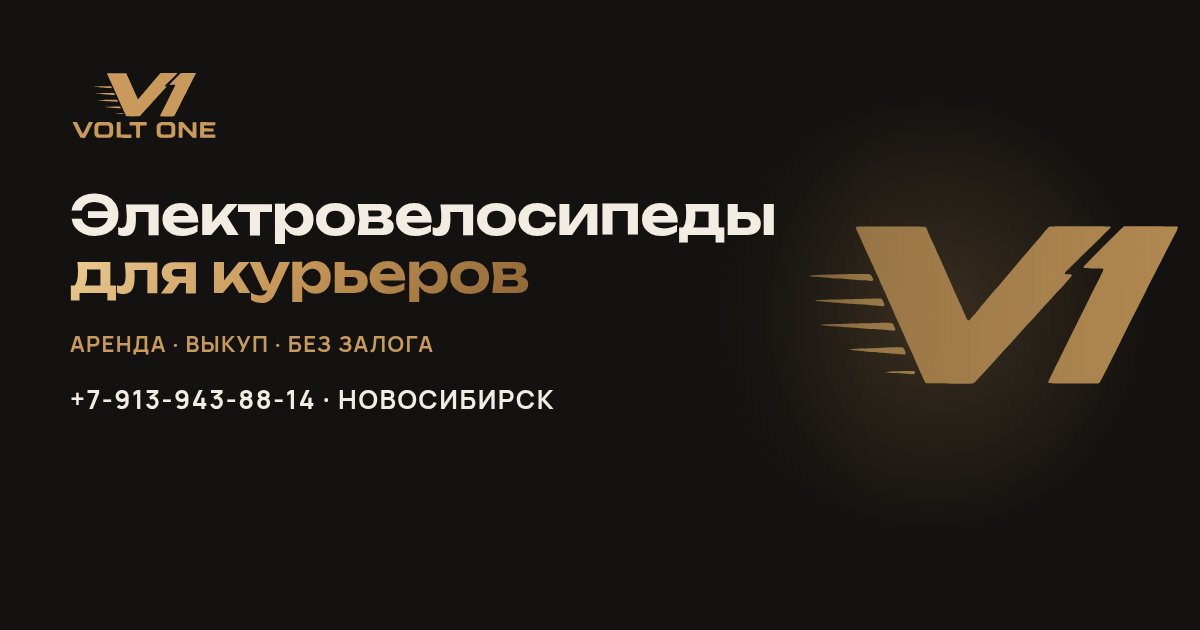
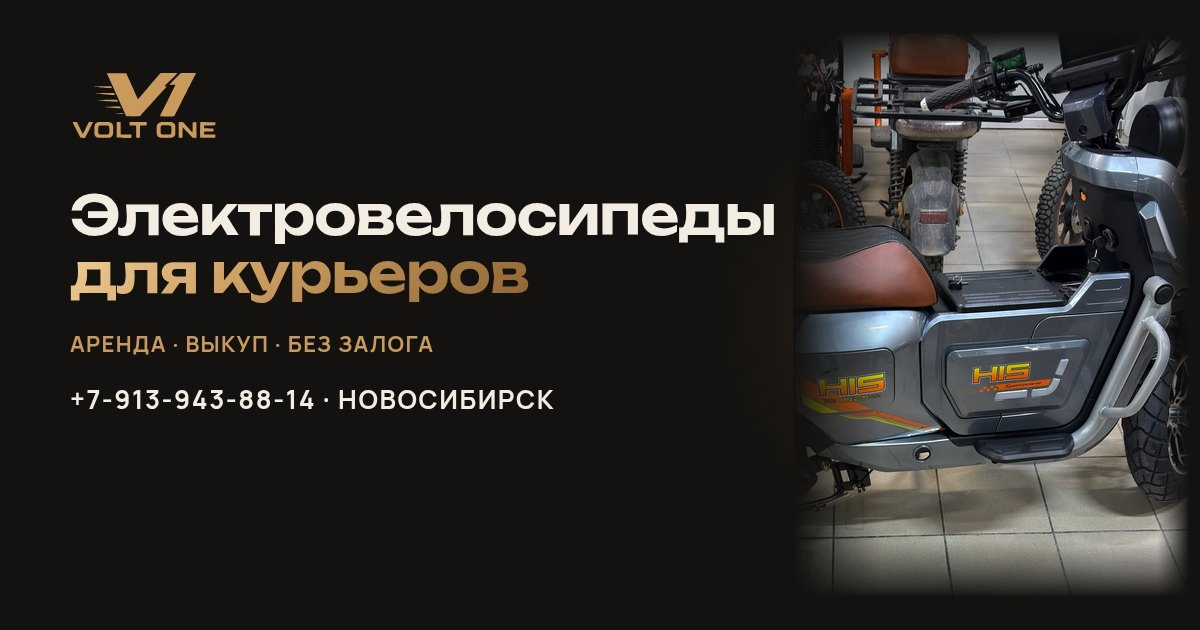
Home hero: real bike photo slider (U2 BIG, U2, R9, U5) with model links; OG image with real photo

Changed region(s): [[0.6475, 0.0603, 0.9867, 0.9349]]

diff --git a/index.html b/index.html
@@ -10,7 +10,7 @@
 <link rel="apple-touch-icon" href="img/brand/apple-touch-icon.png">
 <link rel="preconnect" href="https://fonts.googleapis.com"><link rel="preconnect" href="https://fonts.gstatic.com" crossorigin>
 <link href="https://fonts.googleapis.com/css2?family=Manrope:wght@400;500;600;700;800&family=Unbounded:wght@400;500;600;700&display=swap&subset=cyrillic" rel="stylesheet">
-<link rel="stylesheet" href="assets/style.css?v=11">
+<link rel="stylesheet" href="assets/style.css?v=12">
 <script type="application/ld+json">{"@context": "https://schema.org", "@type": "LocalBusiness", "name": "VOLT ONE", "description": "Аренда, аренда с выкупом и продажа электровелосипедов для курьеров", "telephone": "+79139438814", "address": {"@type": "PostalAddress", "streetAddress": "ул. Пролетарская, 50", "addressLocality": "Новосибирск", "addressCountry": "RU"}, "geo": {"@type": "GeoCoordinates", "latitude": 55.0248099, "longitude": 82.9562136}}</script>
 </head><body><div class="noise"></div><header class="header"><div class="container header-in">
 <a class="logo" href="./" aria-label="VOLT ONE — на главную"><img src="img/brand/mark.svg" alt="VOLT ONE" width="78" height="34"><span class="logo-txt"><b>VOLT ONE</b><small>Аренда · Продажа · Запчасти</small></span></a>
@@ -24,8 +24,7 @@
 <p class="lead rv d2">WENBOX в аренду и с выкупом. Все электровелосипеды новые, полностью подготовлены к работе и подходят для ежедневной работы курьером.</p>
 <div class="hero-btns rv d3"><a class="btn btn-gold" href="catalog/">Выбрать модель<svg class="" viewBox="0 0 24 24" fill="none" stroke="currentColor" stroke-width="1.7" stroke-linecap="round" stroke-linejoin="round" aria-hidden="true"><path d="M5 12h14M13 6l6 6-6 6"/></svg></a><a class="btn btn-ghost" href="tel:+79139438814"><svg class="" viewBox="0 0 24 24" fill="none" stroke="currentColor" stroke-width="1.7" stroke-linecap="round" stroke-linejoin="round" aria-hidden="true"><path d="M5 4h4l2 5-2.5 1.5a11 11 0 0 0 5 5L15 13l5 2v4a2 2 0 0 1-2 2A16 16 0 0 1 3 6a2 2 0 0 1 2-2"/></svg>+7-913-943-88-14</a></div>
 <div class="hero-stats rv d3"><div><b>от 4 000 ₽</b><span>аренда в неделю</span></div><div><b>0 ₽</b><span>залог</span></div><div><b>до 70 км/ч</b><span>скорость U2 / U2 PRO</span></div></div></div>
-<div class="hero-media rv d2"><div class="hero-photo hero-art"><div class="ha-rings"><i></i><i></i><i></i></div><img class="ha-mark" src="img/brand/mark.svg" alt="" aria-hidden="true"><div class="ha-bike"><svg viewBox="0 0 320 190" fill="none" stroke="currentColor" stroke-width="3" stroke-linecap="round" stroke-linejoin="round" aria-hidden="true"><circle cx="70" cy="138" r="40"/><circle cx="70" cy="138" r="14"/><circle cx="252" cy="138" r="40"/><circle cx="252" cy="138" r="14"/><path d="M70 138 112 70h78l20 32"/><path d="M118 70h-22l-10-16M190 70l62 68M210 102h-60l-38 36"/><path d="M228 46l-18 56M218 44h24"/><path d="M128 62h46" stroke-width="10" opacity=".55"/><rect x="138" y="94" width="64" height="20" rx="6" opacity=".55"/></svg></div>
-<div class="cap"><div><b>WENBOX U2 · U2 BIG · U5 · R9</b>Новые электровелосипеды для курьеров</div></div></div>
+<div class="hero-media rv d2"><div class="hero-photo hero-slider" id="hslider"><a class="hs on" href="catalog/u2-big/" aria-label="WENBOX U2 BIG — подробнее"><picture><source srcset="img/models/u2-big/u2big-1.webp" type="image/webp"><img src="img/models/u2-big/u2big-1.jpg" alt="WENBOX U2 BIG" fetchpriority="high" decoding="async"></picture><span class="cap"><span><b>WENBOX U2 BIG</b>Новые электровелосипеды для курьеров</span><span class="hs-more">Подробнее<svg class="" viewBox="0 0 24 24" fill="none" stroke="currentColor" stroke-width="1.7" stroke-linecap="round" stroke-linejoin="round" aria-hidden="true"><path d="M5 12h14M13 6l6 6-6 6"/></svg></span></span></a><a class="hs" href="catalog/u2/" aria-label="WENBOX U2 / U2 PRO — подробнее"><picture><source srcset="img/models/u2/u2-1.webp" type="image/webp"><img src="img/models/u2/u2-1.jpg" alt="WENBOX U2 / U2 PRO" loading="lazy" decoding="async"></picture><span class="cap"><span><b>WENBOX U2 / U2 PRO</b>Новые электровелосипеды для курьеров</span><span class="hs-more">Подробнее<svg class="" viewBox="0 0 24 24" fill="none" stroke="currentColor" stroke-width="1.7" stroke-linecap="round" stroke-linejoin="round" aria-hidden="true"><path d="M5 12h14M13 6l6 6-6 6"/></svg></span></span></a><a class="hs" href="catalog/r9/" aria-label="WENBOX R9 — подробнее"><picture><source srcset="img/models/r9/r9-1.webp" type="image/webp"><img src="img/models/r9/r9-1.jpg" alt="WENBOX R9" loading="lazy" decoding="async"></picture><span class="cap"><span><b>WENBOX R9</b>Новые электровелосипеды для курьеров</span><span class="hs-more">Подробнее<svg class="" viewBox="0 0 24 24" fill="none" stroke="currentColor" stroke-width="1.7" stroke-linecap="round" stroke-linejoin="round" aria-hidden="true"><path d="M5 12h14M13 6l6 6-6 6"/></svg></span></span></a><a class="hs" href="catalog/u5/" aria-label="WENBOX U5 — подробнее"><picture><source srcset="img/models/u5/u5-1.webp" type="image/webp"><img src="img/models/u5/u5-1.jpg" alt="WENBOX U5" loading="lazy" decoding="async"></picture><span class="cap"><span><b>WENBOX U5</b>Новые электровелосипеды для курьеров</span><span class="hs-more">Подробнее<svg class="" viewBox="0 0 24 24" fill="none" stroke="currentColor" stroke-width="1.7" stroke-linecap="round" stroke-linejoin="round" aria-hidden="true"><path d="M5 12h14M13 6l6 6-6 6"/></svg></span></span></a><div class="hs-dots"><button type="button" class="on" aria-label="WENBOX U2 BIG"></button><button type="button" class="" aria-label="WENBOX U2 / U2 PRO"></button><button type="button" class="" aria-label="WENBOX R9"></button><button type="button" class="" aria-label="WENBOX U5"></button></div></div>
 <div class="float-chip chip-1"><svg class="" viewBox="0 0 24 24" fill="none" stroke="currentColor" stroke-width="1.7" stroke-linecap="round" stroke-linejoin="round" aria-hidden="true"><path d="M12 3 4 6v6c0 5 3.5 8 8 9 4.5-1 8-4 8-9V6l-8-3z"/><path d="m9 12 2 2 4-4"/></svg><div><b>Без залога</b><span>новая техника</span></div></div>
 <div class="float-chip chip-2"><svg class="" viewBox="0 0 24 24" fill="none" stroke="currentColor" stroke-width="1.7" stroke-linecap="round" stroke-linejoin="round" aria-hidden="true"><path d="M14.7 6.3a4 4 0 0 0-5.4 5.4L3 18l3 3 6.3-6.3a4 4 0 0 0 5.4-5.4l-2.5 2.5-2.4-.6-.6-2.4 2.5-2.5z"/></svg><div><b>Свой сервис</b><span>подменный — бесплатно</span></div></div></div>
 </div></section>
@@ -93,4 +92,4 @@
 <div><h4>Контакты</h4><ul><li><a href="tel:+79139438814">+7-913-943-88-14</a></li><li><a class="foot-ic" href="https://wa.me/79139438814" target="_blank" rel="noopener"><svg viewBox="0 0 24 24" fill="currentColor" aria-hidden="true"><path d="M12 2.2A9.8 9.8 0 0 0 3.6 17l-1.4 4.8 5-1.3A9.8 9.8 0 1 0 12 2.2zm0 17.9a8.1 8.1 0 0 1-4.1-1.1l-.3-.2-3 .8.8-2.9-.2-.3A8.1 8.1 0 1 1 12 20.1zm4.5-6.1c-.2-.1-1.5-.7-1.7-.8-.2-.1-.4-.1-.6.1l-.8 1c-.1.2-.3.2-.5.1a6.6 6.6 0 0 1-3.3-2.9c-.2-.4.2-.4.7-1.3.1-.2 0-.3 0-.4l-.8-1.8c-.2-.5-.4-.4-.6-.4h-.5a1 1 0 0 0-.7.3 3 3 0 0 0-.9 2.2c0 1.3.9 2.5 1.1 2.7.1.2 1.8 2.8 4.4 3.9 1.6.7 2.3.8 3.1.6.5-.1 1.5-.6 1.7-1.2.2-.6.2-1.1.2-1.2-.1-.1-.3-.2-.5-.3z"/></svg>Написать в WhatsApp</a></li><li><a class="foot-ic" href="https://t.me/Volt0ne" target="_blank" rel="noopener"><svg viewBox="0 0 24 24" fill="currentColor" aria-hidden="true"><path d="M21.4 3.6 2.9 10.7c-1.3.5-1.2 1.2-.2 1.5l4.7 1.5 1.8 5.6c.2.6.4.8.8.8s.6-.2.9-.5l2.3-2.2 4.8 3.5c.9.5 1.5.2 1.7-.8l3.1-14.7c.3-1.3-.5-1.9-1.4-1.3zM9.6 13.9l8.6-5.4c.4-.3.8-.1.5.2l-7.4 6.7-.3 3.1-1.4-4.6z"/></svg>Написать в Telegram · @Volt0ne</a></li><li style="color:var(--muted)">г. Новосибирск, ул. Пролетарская, 50</li></ul></div>
 </div><div class="foot-bottom"><span>© 2026 VOLT ONE. Аренда · Продажа · Запчасти</span><span>Новая техника · Без залога · Собственный сервис · Аренда с выкупом</span></div></div></footer>
 <div class="mbar"><a class="btn btn-gold" href="tel:+79139438814"><svg class="" viewBox="0 0 24 24" fill="none" stroke="currentColor" stroke-width="1.7" stroke-linecap="round" stroke-linejoin="round" aria-hidden="true"><path d="M5 4h4l2 5-2.5 1.5a11 11 0 0 0 5 5L15 13l5 2v4a2 2 0 0 1-2 2A16 16 0 0 1 3 6a2 2 0 0 1 2-2"/></svg>Позвонить</a><a class="btn btn-ghost" href="https://wa.me/79139438814" target="_blank" rel="noopener"><svg viewBox="0 0 24 24" fill="currentColor" aria-hidden="true"><path d="M12 2.2A9.8 9.8 0 0 0 3.6 17l-1.4 4.8 5-1.3A9.8 9.8 0 1 0 12 2.2zm0 17.9a8.1 8.1 0 0 1-4.1-1.1l-.3-.2-3 .8.8-2.9-.2-.3A8.1 8.1 0 1 1 12 20.1zm4.5-6.1c-.2-.1-1.5-.7-1.7-.8-.2-.1-.4-.1-.6.1l-.8 1c-.1.2-.3.2-.5.1a6.6 6.6 0 0 1-3.3-2.9c-.2-.4.2-.4.7-1.3.1-.2 0-.3 0-.4l-.8-1.8c-.2-.5-.4-.4-.6-.4h-.5a1 1 0 0 0-.7.3 3 3 0 0 0-.9 2.2c0 1.3.9 2.5 1.1 2.7.1.2 1.8 2.8 4.4 3.9 1.6.7 2.3.8 3.1.6.5-.1 1.5-.6 1.7-1.2.2-.6.2-1.1.2-1.2-.1-.1-.3-.2-.5-.3z"/></svg>WhatsApp</a></div>
-<script src="assets/main.js?v=7" defer></script></body></html>
+<script src="assets/main.js?v=8" defer></script></body></html>

diff --git a/catalog/r9/index.html b/catalog/r9/index.html
@@ -10,7 +10,7 @@
 <link rel="apple-touch-icon" href="../../img/brand/apple-touch-icon.png">
 <link rel="preconnect" href="https://fonts.googleapis.com"><link rel="preconnect" href="https://fonts.gstatic.com" crossorigin>
 <link href="https://fonts.googleapis.com/css2?family=Manrope:wght@400;500;600;700;800&family=Unbounded:wght@400;500;600;700&display=swap&subset=cyrillic" rel="stylesheet">
-<link rel="stylesheet" href="../../assets/style.css?v=11">
+<link rel="stylesheet" href="../../assets/style.css?v=12">
 <script type="application/ld+json">{"@context": "https://schema.org", "@type": "LocalBusiness", "name": "VOLT ONE", "description": "Аренда, аренда с выкупом и продажа электровелосипедов для курьеров", "telephone": "+79139438814", "address": {"@type": "PostalAddress", "streetAddress": "ул. Пролетарская, 50", "addressLocality": "Новосибирск", "addressCountry": "RU"}, "geo": {"@type": "GeoCoordinates", "latitude": 55.0248099, "longitude": 82.9562136}}</script>
 </head><body><div class="noise"></div><header class="header solid"><div class="container header-in">
 <a class="logo" href="../../" aria-label="VOLT ONE — на главную"><img src="../../img/brand/mark.svg" alt="VOLT ONE" width="78" height="34"><span class="logo-txt"><b>VOLT ONE</b><small>Аренда · Продажа · Запчасти</small></span></a>
@@ -45,4 +45,4 @@
 <div><h4>Контакты</h4><ul><li><a href="tel:+79139438814">+7-913-943-88-14</a></li><li><a class="foot-ic" href="https://wa.me/79139438814" target="_blank" rel="noopener"><svg viewBox="0 0 24 24" fill="currentColor" aria-hidden="true"><path d="M12 2.2A9.8 9.8 0 0 0 3.6 17l-1.4 4.8 5-1.3A9.8 9.8 0 1 0 12 2.2zm0 17.9a8.1 8.1 0 0 1-4.1-1.1l-.3-.2-3 .8.8-2.9-.2-.3A8.1 8.1 0 1 1 12 20.1zm4.5-6.1c-.2-.1-1.5-.7-1.7-.8-.2-.1-.4-.1-.6.1l-.8 1c-.1.2-.3.2-.5.1a6.6 6.6 0 0 1-3.3-2.9c-.2-.4.2-.4.7-1.3.1-.2 0-.3 0-.4l-.8-1.8c-.2-.5-.4-.4-.6-.4h-.5a1 1 0 0 0-.7.3 3 3 0 0 0-.9 2.2c0 1.3.9 2.5 1.1 2.7.1.2 1.8 2.8 4.4 3.9 1.6.7 2.3.8 3.1.6.5-.1 1.5-.6 1.7-1.2.2-.6.2-1.1.2-1.2-.1-.1-.3-.2-.5-.3z"/></svg>Написать в WhatsApp</a></li><li><a class="foot-ic" href="https://t.me/Volt0ne" target="_blank" rel="noopener"><svg viewBox="0 0 24 24" fill="currentColor" aria-hidden="true"><path d="M21.4 3.6 2.9 10.7c-1.3.5-1.2 1.2-.2 1.5l4.7 1.5 1.8 5.6c.2.6.4.8.8.8s.6-.2.9-.5l2.3-2.2 4.8 3.5c.9.5 1.5.2 1.7-.8l3.1-14.7c.3-1.3-.5-1.9-1.4-1.3zM9.6 13.9l8.6-5.4c.4-.3.8-.1.5.2l-7.4 6.7-.3 3.1-1.4-4.6z"/></svg>Написать в Telegram · @Volt0ne</a></li><li style="color:var(--muted)">г. Новосибирск, ул. Пролетарская, 50</li></ul></div>
 </div><div class="foot-bottom"><span>© 2026 VOLT ONE. Аренда · Продажа · Запчасти</span><span>Новая техника · Без залога · Собственный сервис · Аренда с выкупом</span></div></div></footer>
 <div class="mbar"><a class="btn btn-gold" href="tel:+79139438814"><svg class="" viewBox="0 0 24 24" fill="none" stroke="currentColor" stroke-width="1.7" stroke-linecap="round" stroke-linejoin="round" aria-hidden="true"><path d="M5 4h4l2 5-2.5 1.5a11 11 0 0 0 5 5L15 13l5 2v4a2 2 0 0 1-2 2A16 16 0 0 1 3 6a2 2 0 0 1 2-2"/></svg>Позвонить</a><a class="btn btn-ghost" href="https://wa.me/79139438814" target="_blank" rel="noopener"><svg viewBox="0 0 24 24" fill="currentColor" aria-hidden="true"><path d="M12 2.2A9.8 9.8 0 0 0 3.6 17l-1.4 4.8 5-1.3A9.8 9.8 0 1 0 12 2.2zm0 17.9a8.1 8.1 0 0 1-4.1-1.1l-.3-.2-3 .8.8-2.9-.2-.3A8.1 8.1 0 1 1 12 20.1zm4.5-6.1c-.2-.1-1.5-.7-1.7-.8-.2-.1-.4-.1-.6.1l-.8 1c-.1.2-.3.2-.5.1a6.6 6.6 0 0 1-3.3-2.9c-.2-.4.2-.4.7-1.3.1-.2 0-.3 0-.4l-.8-1.8c-.2-.5-.4-.4-.6-.4h-.5a1 1 0 0 0-.7.3 3 3 0 0 0-.9 2.2c0 1.3.9 2.5 1.1 2.7.1.2 1.8 2.8 4.4 3.9 1.6.7 2.3.8 3.1.6.5-.1 1.5-.6 1.7-1.2.2-.6.2-1.1.2-1.2-.1-.1-.3-.2-.5-.3z"/></svg>WhatsApp</a></div>
-<script src="../../assets/main.js?v=7" defer></script></body></html>
+<script src="../../assets/main.js?v=8" defer></script></body></html>

diff --git a/catalog/u2-big/index.html b/catalog/u2-big/index.html
@@ -10,7 +10,7 @@
 <link rel="apple-touch-icon" href="../../img/brand/apple-touch-icon.png">
 <link rel="preconnect" href="https://fonts.googleapis.com"><link rel="preconnect" href="https://fonts.gstatic.com" crossorigin>
 <link href="https://fonts.googleapis.com/css2?family=Manrope:wght@400;500;600;700;800&family=Unbounded:wght@400;500;600;700&display=swap&subset=cyrillic" rel="stylesheet">
-<link rel="stylesheet" href="../../assets/style.css?v=11">
+<link rel="stylesheet" href="../../assets/style.css?v=12">
 <script type="application/ld+json">{"@context": "https://schema.org", "@type": "LocalBusiness", "name": "VOLT ONE", "description": "Аренда, аренда с выкупом и продажа электровелосипедов для курьеров", "telephone": "+79139438814", "address": {"@type": "PostalAddress", "streetAddress": "ул. Пролетарская, 50", "addressLocality": "Новосибирск", "addressCountry": "RU"}, "geo": {"@type": "GeoCoordinates", "latitude": 55.0248099, "longitude": 82.9562136}}</script>
 </head><body><div class="noise"></div><header class="header solid"><div class="container header-in">
 <a class="logo" href="../../" aria-label="VOLT ONE — на главную"><img src="../../img/brand/mark.svg" alt="VOLT ONE" width="78" height="34"><span class="logo-txt"><b>VOLT ONE</b><small>Аренда · Продажа · Запчасти</small></span></a>
@@ -45,4 +45,4 @@
 <div><h4>Контакты</h4><ul><li><a href="tel:+79139438814">+7-913-943-88-14</a></li><li><a class="foot-ic" href="https://wa.me/79139438814" target="_blank" rel="noopener"><svg viewBox="0 0 24 24" fill="currentColor" aria-hidden="true"><path d="M12 2.2A9.8 9.8 0 0 0 3.6 17l-1.4 4.8 5-1.3A9.8 9.8 0 1 0 12 2.2zm0 17.9a8.1 8.1 0 0 1-4.1-1.1l-.3-.2-3 .8.8-2.9-.2-.3A8.1 8.1 0 1 1 12 20.1zm4.5-6.1c-.2-.1-1.5-.7-1.7-.8-.2-.1-.4-.1-.6.1l-.8 1c-.1.2-.3.2-.5.1a6.6 6.6 0 0 1-3.3-2.9c-.2-.4.2-.4.7-1.3.1-.2 0-.3 0-.4l-.8-1.8c-.2-.5-.4-.4-.6-.4h-.5a1 1 0 0 0-.7.3 3 3 0 0 0-.9 2.2c0 1.3.9 2.5 1.1 2.7.1.2 1.8 2.8 4.4 3.9 1.6.7 2.3.8 3.1.6.5-.1 1.5-.6 1.7-1.2.2-.6.2-1.1.2-1.2-.1-.1-.3-.2-.5-.3z"/></svg>Написать в WhatsApp</a></li><li><a class="foot-ic" href="https://t.me/Volt0ne" target="_blank" rel="noopener"><svg viewBox="0 0 24 24" fill="currentColor" aria-hidden="true"><path d="M21.4 3.6 2.9 10.7c-1.3.5-1.2 1.2-.2 1.5l4.7 1.5 1.8 5.6c.2.6.4.8.8.8s.6-.2.9-.5l2.3-2.2 4.8 3.5c.9.5 1.5.2 1.7-.8l3.1-14.7c.3-1.3-.5-1.9-1.4-1.3zM9.6 13.9l8.6-5.4c.4-.3.8-.1.5.2l-7.4 6.7-.3 3.1-1.4-4.6z"/></svg>Написать в Telegram · @Volt0ne</a></li><li style="color:var(--muted)">г. Новосибирск, ул. Пролетарская, 50</li></ul></div>
 </div><div class="foot-bottom"><span>© 2026 VOLT ONE. Аренда · Продажа · Запчасти</span><span>Новая техника · Без залога · Собственный сервис · Аренда с выкупом</span></div></div></footer>
 <div class="mbar"><a class="btn btn-gold" href="tel:+79139438814"><svg class="" viewBox="0 0 24 24" fill="none" stroke="currentColor" stroke-width="1.7" stroke-linecap="round" stroke-linejoin="round" aria-hidden="true"><path d="M5 4h4l2 5-2.5 1.5a11 11 0 0 0 5 5L15 13l5 2v4a2 2 0 0 1-2 2A16 16 0 0 1 3 6a2 2 0 0 1 2-2"/></svg>Позвонить</a><a class="btn btn-ghost" href="https://wa.me/79139438814" target="_blank" rel="noopener"><svg viewBox="0 0 24 24" fill="currentColor" aria-hidden="true"><path d="M12 2.2A9.8 9.8 0 0 0 3.6 17l-1.4 4.8 5-1.3A9.8 9.8 0 1 0 12 2.2zm0 17.9a8.1 8.1 0 0 1-4.1-1.1l-.3-.2-3 .8.8-2.9-.2-.3A8.1 8.1 0 1 1 12 20.1zm4.5-6.1c-.2-.1-1.5-.7-1.7-.8-.2-.1-.4-.1-.6.1l-.8 1c-.1.2-.3.2-.5.1a6.6 6.6 0 0 1-3.3-2.9c-.2-.4.2-.4.7-1.3.1-.2 0-.3 0-.4l-.8-1.8c-.2-.5-.4-.4-.6-.4h-.5a1 1 0 0 0-.7.3 3 3 0 0 0-.9 2.2c0 1.3.9 2.5 1.1 2.7.1.2 1.8 2.8 4.4 3.9 1.6.7 2.3.8 3.1.6.5-.1 1.5-.6 1.7-1.2.2-.6.2-1.1.2-1.2-.1-.1-.3-.2-.5-.3z"/></svg>WhatsApp</a></div>
-<script src="../../assets/main.js?v=7" defer></script></body></html>
+<script src="../../assets/main.js?v=8" defer></script></body></html>

diff --git a/catalog/u2/index.html b/catalog/u2/index.html
@@ -10,7 +10,7 @@
 <link rel="apple-touch-icon" href="../../img/brand/apple-touch-icon.png">
 <link rel="preconnect" href="https://fonts.googleapis.com"><link rel="preconnect" href="https://fonts.gstatic.com" crossorigin>
 <link href="https://fonts.googleapis.com/css2?family=Manrope:wght@400;500;600;700;800&family=Unbounded:wght@400;500;600;700&display=swap&subset=cyrillic" rel="stylesheet">
-<link rel="stylesheet" href="../../assets/style.css?v=11">
+<link rel="stylesheet" href="../../assets/style.css?v=12">
 <script type="application/ld+json">{"@context": "https://schema.org", "@type": "LocalBusiness", "name": "VOLT ONE", "description": "Аренда, аренда с выкупом и продажа электровелосипедов для курьеров", "telephone": "+79139438814", "address": {"@type": "PostalAddress", "streetAddress": "ул. Пролетарская, 50", "addressLocality": "Новосибирск", "addressCountry": "RU"}, "geo": {"@type": "GeoCoordinates", "latitude": 55.0248099, "longitude": 82.9562136}}</script>
 </head><body><div class="noise"></div><header class="header solid"><div class="container header-in">
 <a class="logo" href="../../" aria-label="VOLT ONE — на главную"><img src="../../img/brand/mark.svg" alt="VOLT ONE" width="78" height="34"><span class="logo-txt"><b>VOLT ONE</b><small>Аренда · Продажа · Запчасти</small></span></a>
@@ -45,4 +45,4 @@
 <div><h4>Контакты</h4><ul><li><a href="tel:+79139438814">+7-913-943-88-14</a></li><li><a class="foot-ic" href="https://wa.me/79139438814" target="_blank" rel="noopener"><svg viewBox="0 0 24 24" fill="currentColor" aria-hidden="true"><path d="M12 2.2A9.8 9.8 0 0 0 3.6 17l-1.4 4.8 5-1.3A9.8 9.8 0 1 0 12 2.2zm0 17.9a8.1 8.1 0 0 1-4.1-1.1l-.3-.2-3 .8.8-2.9-.2-.3A8.1 8.1 0 1 1 12 20.1zm4.5-6.1c-.2-.1-1.5-.7-1.7-.8-.2-.1-.4-.1-.6.1l-.8 1c-.1.2-.3.2-.5.1a6.6 6.6 0 0 1-3.3-2.9c-.2-.4.2-.4.7-1.3.1-.2 0-.3 0-.4l-.8-1.8c-.2-.5-.4-.4-.6-.4h-.5a1 1 0 0 0-.7.3 3 3 0 0 0-.9 2.2c0 1.3.9 2.5 1.1 2.7.1.2 1.8 2.8 4.4 3.9 1.6.7 2.3.8 3.1.6.5-.1 1.5-.6 1.7-1.2.2-.6.2-1.1.2-1.2-.1-.1-.3-.2-.5-.3z"/></svg>Написать в WhatsApp</a></li><li><a class="foot-ic" href="https://t.me/Volt0ne" target="_blank" rel="noopener"><svg viewBox="0 0 24 24" fill="currentColor" aria-hidden="true"><path d="M21.4 3.6 2.9 10.7c-1.3.5-1.2 1.2-.2 1.5l4.7 1.5 1.8 5.6c.2.6.4.8.8.8s.6-.2.9-.5l2.3-2.2 4.8 3.5c.9.5 1.5.2 1.7-.8l3.1-14.7c.3-1.3-.5-1.9-1.4-1.3zM9.6 13.9l8.6-5.4c.4-.3.8-.1.5.2l-7.4 6.7-.3 3.1-1.4-4.6z"/></svg>Написать в Telegram · @Volt0ne</a></li><li style="color:var(--muted)">г. Новосибирск, ул. Пролетарская, 50</li></ul></div>
 </div><div class="foot-bottom"><span>© 2026 VOLT ONE. Аренда · Продажа · Запчасти</span><span>Новая техника · Без залога · Собственный сервис · Аренда с выкупом</span></div></div></footer>
 <div class="mbar"><a class="btn btn-gold" href="tel:+79139438814"><svg class="" viewBox="0 0 24 24" fill="none" stroke="currentColor" stroke-width="1.7" stroke-linecap="round" stroke-linejoin="round" aria-hidden="true"><path d="M5 4h4l2 5-2.5 1.5a11 11 0 0 0 5 5L15 13l5 2v4a2 2 0 0 1-2 2A16 16 0 0 1 3 6a2 2 0 0 1 2-2"/></svg>Позвонить</a><a class="btn btn-ghost" href="https://wa.me/79139438814" target="_blank" rel="noopener"><svg viewBox="0 0 24 24" fill="currentColor" aria-hidden="true"><path d="M12 2.2A9.8 9.8 0 0 0 3.6 17l-1.4 4.8 5-1.3A9.8 9.8 0 1 0 12 2.2zm0 17.9a8.1 8.1 0 0 1-4.1-1.1l-.3-.2-3 .8.8-2.9-.2-.3A8.1 8.1 0 1 1 12 20.1zm4.5-6.1c-.2-.1-1.5-.7-1.7-.8-.2-.1-.4-.1-.6.1l-.8 1c-.1.2-.3.2-.5.1a6.6 6.6 0 0 1-3.3-2.9c-.2-.4.2-.4.7-1.3.1-.2 0-.3 0-.4l-.8-1.8c-.2-.5-.4-.4-.6-.4h-.5a1 1 0 0 0-.7.3 3 3 0 0 0-.9 2.2c0 1.3.9 2.5 1.1 2.7.1.2 1.8 2.8 4.4 3.9 1.6.7 2.3.8 3.1.6.5-.1 1.5-.6 1.7-1.2.2-.6.2-1.1.2-1.2-.1-.1-.3-.2-.5-.3z"/></svg>WhatsApp</a></div>
-<script src="../../assets/main.js?v=7" defer></script></body></html>
+<script src="../../assets/main.js?v=8" defer></script></body></html>

diff --git a/catalog/u5/index.html b/catalog/u5/index.html
@@ -10,7 +10,7 @@
 <link rel="apple-touch-icon" href="../../img/brand/apple-touch-icon.png">
 <link rel="preconnect" href="https://fonts.googleapis.com"><link rel="preconnect" href="https://fonts.gstatic.com" crossorigin>
 <link href="https://fonts.googleapis.com/css2?family=Manrope:wght@400;500;600;700;800&family=Unbounded:wght@400;500;600;700&display=swap&subset=cyrillic" rel="stylesheet">
-<link rel="stylesheet" href="../../assets/style.css?v=11">
+<link rel="stylesheet" href="../../assets/style.css?v=12">
 <script type="application/ld+json">{"@context": "https://schema.org", "@type": "LocalBusiness", "name": "VOLT ONE", "description": "Аренда, аренда с выкупом и продажа электровелосипедов для курьеров", "telephone": "+79139438814", "address": {"@type": "PostalAddress", "streetAddress": "ул. Пролетарская, 50", "addressLocality": "Новосибирск", "addressCountry": "RU"}, "geo": {"@type": "GeoCoordinates", "latitude": 55.0248099, "longitude": 82.9562136}}</script>
 </head><body><div class="noise"></div><header class="header solid"><div class="container header-in">
 <a class="logo" href="../../" aria-label="VOLT ONE — на главную"><img src="../../img/brand/mark.svg" alt="VOLT ONE" width="78" height="34"><span class="logo-txt"><b>VOLT ONE</b><small>Аренда · Продажа · Запчасти</small></span></a>
@@ -45,4 +45,4 @@
 <div><h4>Контакты</h4><ul><li><a href="tel:+79139438814">+7-913-943-88-14</a></li><li><a class="foot-ic" href="https://wa.me/79139438814" target="_blank" rel="noopener"><svg viewBox="0 0 24 24" fill="currentColor" aria-hidden="true"><path d="M12 2.2A9.8 9.8 0 0 0 3.6 17l-1.4 4.8 5-1.3A9.8 9.8 0 1 0 12 2.2zm0 17.9a8.1 8.1 0 0 1-4.1-1.1l-.3-.2-3 .8.8-2.9-.2-.3A8.1 8.1 0 1 1 12 20.1zm4.5-6.1c-.2-.1-1.5-.7-1.7-.8-.2-.1-.4-.1-.6.1l-.8 1c-.1.2-.3.2-.5.1a6.6 6.6 0 0 1-3.3-2.9c-.2-.4.2-.4.7-1.3.1-.2 0-.3 0-.4l-.8-1.8c-.2-.5-.4-.4-.6-.4h-.5a1 1 0 0 0-.7.3 3 3 0 0 0-.9 2.2c0 1.3.9 2.5 1.1 2.7.1.2 1.8 2.8 4.4 3.9 1.6.7 2.3.8 3.1.6.5-.1 1.5-.6 1.7-1.2.2-.6.2-1.1.2-1.2-.1-.1-.3-.2-.5-.3z"/></svg>Написать в WhatsApp</a></li><li><a class="foot-ic" href="https://t.me/Volt0ne" target="_blank" rel="noopener"><svg viewBox="0 0 24 24" fill="currentColor" aria-hidden="true"><path d="M21.4 3.6 2.9 10.7c-1.3.5-1.2 1.2-.2 1.5l4.7 1.5 1.8 5.6c.2.6.4.8.8.8s.6-.2.9-.5l2.3-2.2 4.8 3.5c.9.5 1.5.2 1.7-.8l3.1-14.7c.3-1.3-.5-1.9-1.4-1.3zM9.6 13.9l8.6-5.4c.4-.3.8-.1.5.2l-7.4 6.7-.3 3.1-1.4-4.6z"/></svg>Написать в Telegram · @Volt0ne</a></li><li style="color:var(--muted)">г. Новосибирск, ул. Пролетарская, 50</li></ul></div>
 </div><div class="foot-bottom"><span>© 2026 VOLT ONE. Аренда · Продажа · Запчасти</span><span>Новая техника · Без залога · Собственный сервис · Аренда с выкупом</span></div></div></footer>
 <div class="mbar"><a class="btn btn-gold" href="tel:+79139438814"><svg class="" viewBox="0 0 24 24" fill="none" stroke="currentColor" stroke-width="1.7" stroke-linecap="round" stroke-linejoin="round" aria-hidden="true"><path d="M5 4h4l2 5-2.5 1.5a11 11 0 0 0 5 5L15 13l5 2v4a2 2 0 0 1-2 2A16 16 0 0 1 3 6a2 2 0 0 1 2-2"/></svg>Позвонить</a><a class="btn btn-ghost" href="https://wa.me/79139438814" target="_blank" rel="noopener"><svg viewBox="0 0 24 24" fill="currentColor" aria-hidden="true"><path d="M12 2.2A9.8 9.8 0 0 0 3.6 17l-1.4 4.8 5-1.3A9.8 9.8 0 1 0 12 2.2zm0 17.9a8.1 8.1 0 0 1-4.1-1.1l-.3-.2-3 .8.8-2.9-.2-.3A8.1 8.1 0 1 1 12 20.1zm4.5-6.1c-.2-.1-1.5-.7-1.7-.8-.2-.1-.4-.1-.6.1l-.8 1c-.1.2-.3.2-.5.1a6.6 6.6 0 0 1-3.3-2.9c-.2-.4.2-.4.7-1.3.1-.2 0-.3 0-.4l-.8-1.8c-.2-.5-.4-.4-.6-.4h-.5a1 1 0 0 0-.7.3 3 3 0 0 0-.9 2.2c0 1.3.9 2.5 1.1 2.7.1.2 1.8 2.8 4.4 3.9 1.6.7 2.3.8 3.1.6.5-.1 1.5-.6 1.7-1.2.2-.6.2-1.1.2-1.2-.1-.1-.3-.2-.5-.3z"/></svg>WhatsApp</a></div>
-<script src="../../assets/main.js?v=7" defer></script></body></html>
+<script src="../../assets/main.js?v=8" defer></script></body></html>

diff --git a/catalog/index.html b/catalog/index.html
@@ -10,7 +10,7 @@
 <link rel="apple-touch-icon" href="../img/brand/apple-touch-icon.png">
 <link rel="preconnect" href="https://fonts.googleapis.com"><link rel="preconnect" href="https://fonts.gstatic.com" crossorigin>
 <link href="https://fonts.googleapis.com/css2?family=Manrope:wght@400;500;600;700;800&family=Unbounded:wght@400;500;600;700&display=swap&subset=cyrillic" rel="stylesheet">
-<link rel="stylesheet" href="../assets/style.css?v=11">
+<link rel="stylesheet" href="../assets/style.css?v=12">
 <script type="application/ld+json">{"@context": "https://schema.org", "@type": "LocalBusiness", "name": "VOLT ONE", "description": "Аренда, аренда с выкупом и продажа электровелосипедов для курьеров", "telephone": "+79139438814", "address": {"@type": "PostalAddress", "streetAddress": "ул. Пролетарская, 50", "addressLocality": "Новосибирск", "addressCountry": "RU"}, "geo": {"@type": "GeoCoordinates", "latitude": 55.0248099, "longitude": 82.9562136}}</script>
 </head><body><div class="noise"></div><header class="header solid"><div class="container header-in">
 <a class="logo" href="../" aria-label="VOLT ONE — на главную"><img src="../img/brand/mark.svg" alt="VOLT ONE" width="78" height="34"><span class="logo-txt"><b>VOLT ONE</b><small>Аренда · Продажа · Запчасти</small></span></a>
@@ -42,4 +42,4 @@
 <div><h4>Контакты</h4><ul><li><a href="tel:+79139438814">+7-913-943-88-14</a></li><li><a class="foot-ic" href="https://wa.me/79139438814" target="_blank" rel="noopener"><svg viewBox="0 0 24 24" fill="currentColor" aria-hidden="true"><path d="M12 2.2A9.8 9.8 0 0 0 3.6 17l-1.4 4.8 5-1.3A9.8 9.8 0 1 0 12 2.2zm0 17.9a8.1 8.1 0 0 1-4.1-1.1l-.3-.2-3 .8.8-2.9-.2-.3A8.1 8.1 0 1 1 12 20.1zm4.5-6.1c-.2-.1-1.5-.7-1.7-.8-.2-.1-.4-.1-.6.1l-.8 1c-.1.2-.3.2-.5.1a6.6 6.6 0 0 1-3.3-2.9c-.2-.4.2-.4.7-1.3.1-.2 0-.3 0-.4l-.8-1.8c-.2-.5-.4-.4-.6-.4h-.5a1 1 0 0 0-.7.3 3 3 0 0 0-.9 2.2c0 1.3.9 2.5 1.1 2.7.1.2 1.8 2.8 4.4 3.9 1.6.7 2.3.8 3.1.6.5-.1 1.5-.6 1.7-1.2.2-.6.2-1.1.2-1.2-.1-.1-.3-.2-.5-.3z"/></svg>Написать в WhatsApp</a></li><li><a class="foot-ic" href="https://t.me/Volt0ne" target="_blank" rel="noopener"><svg viewBox="0 0 24 24" fill="currentColor" aria-hidden="true"><path d="M21.4 3.6 2.9 10.7c-1.3.5-1.2 1.2-.2 1.5l4.7 1.5 1.8 5.6c.2.6.4.8.8.8s.6-.2.9-.5l2.3-2.2 4.8 3.5c.9.5 1.5.2 1.7-.8l3.1-14.7c.3-1.3-.5-1.9-1.4-1.3zM9.6 13.9l8.6-5.4c.4-.3.8-.1.5.2l-7.4 6.7-.3 3.1-1.4-4.6z"/></svg>Написать в Telegram · @Volt0ne</a></li><li style="color:var(--muted)">г. Новосибирск, ул. Пролетарская, 50</li></ul></div>
 </div><div class="foot-bottom"><span>© 2026 VOLT ONE. Аренда · Продажа · Запчасти</span><span>Новая техника · Без залога · Собственный сервис · Аренда с выкупом</span></div></div></footer>
 <div class="mbar"><a class="btn btn-gold" href="tel:+79139438814"><svg class="" viewBox="0 0 24 24" fill="none" stroke="currentColor" stroke-width="1.7" stroke-linecap="round" stroke-linejoin="round" aria-hidden="true"><path d="M5 4h4l2 5-2.5 1.5a11 11 0 0 0 5 5L15 13l5 2v4a2 2 0 0 1-2 2A16 16 0 0 1 3 6a2 2 0 0 1 2-2"/></svg>Позвонить</a><a class="btn btn-ghost" href="https://wa.me/79139438814" target="_blank" rel="noopener"><svg viewBox="0 0 24 24" fill="currentColor" aria-hidden="true"><path d="M12 2.2A9.8 9.8 0 0 0 3.6 17l-1.4 4.8 5-1.3A9.8 9.8 0 1 0 12 2.2zm0 17.9a8.1 8.1 0 0 1-4.1-1.1l-.3-.2-3 .8.8-2.9-.2-.3A8.1 8.1 0 1 1 12 20.1zm4.5-6.1c-.2-.1-1.5-.7-1.7-.8-.2-.1-.4-.1-.6.1l-.8 1c-.1.2-.3.2-.5.1a6.6 6.6 0 0 1-3.3-2.9c-.2-.4.2-.4.7-1.3.1-.2 0-.3 0-.4l-.8-1.8c-.2-.5-.4-.4-.6-.4h-.5a1 1 0 0 0-.7.3 3 3 0 0 0-.9 2.2c0 1.3.9 2.5 1.1 2.7.1.2 1.8 2.8 4.4 3.9 1.6.7 2.3.8 3.1.6.5-.1 1.5-.6 1.7-1.2.2-.6.2-1.1.2-1.2-.1-.1-.3-.2-.5-.3z"/></svg>WhatsApp</a></div>
-<script src="../assets/main.js?v=7" defer></script></body></html>
+<script src="../assets/main.js?v=8" defer></script></body></html>

diff --git a/parts/index.html b/parts/index.html
@@ -10,7 +10,7 @@
 <link rel="apple-touch-icon" href="../img/brand/apple-touch-icon.png">
 <link rel="preconnect" href="https://fonts.googleapis.com"><link rel="preconnect" href="https://fonts.gstatic.com" crossorigin>
 <link href="https://fonts.googleapis.com/css2?family=Manrope:wght@400;500;600;700;800&family=Unbounded:wght@400;500;600;700&display=swap&subset=cyrillic" rel="stylesheet">
-<link rel="stylesheet" href="../assets/style.css?v=11">
+<link rel="stylesheet" href="../assets/style.css?v=12">
 <script type="application/ld+json">{"@context": "https://schema.org", "@type": "LocalBusiness", "name": "VOLT ONE", "description": "Аренда, аренда с выкупом и продажа электровелосипедов для курьеров", "telephone": "+79139438814", "address": {"@type": "PostalAddress", "streetAddress": "ул. Пролетарская, 50", "addressLocality": "Новосибирск", "addressCountry": "RU"}, "geo": {"@type": "GeoCoordinates", "latitude": 55.0248099, "longitude": 82.9562136}}</script>
 </head><body><div class="noise"></div><header class="header solid"><div class="container header-in">
 <a class="logo" href="../" aria-label="VOLT ONE — на главную"><img src="../img/brand/mark.svg" alt="VOLT ONE" width="78" height="34"><span class="logo-txt"><b>VOLT ONE</b><small>Аренда · Продажа · Запчасти</small></span></a>
@@ -34,4 +34,4 @@
 <div><h4>Контакты</h4><ul><li><a href="tel:+79139438814">+7-913-943-88-14</a></li><li><a class="foot-ic" href="https://wa.me/79139438814" target="_blank" rel="noopener"><svg viewBox="0 0 24 24" fill="currentColor" aria-hidden="true"><path d="M12 2.2A9.8 9.8 0 0 0 3.6 17l-1.4 4.8 5-1.3A9.8 9.8 0 1 0 12 2.2zm0 17.9a8.1 8.1 0 0 1-4.1-1.1l-.3-.2-3 .8.8-2.9-.2-.3A8.1 8.1 0 1 1 12 20.1zm4.5-6.1c-.2-.1-1.5-.7-1.7-.8-.2-.1-.4-.1-.6.1l-.8 1c-.1.2-.3.2-.5.1a6.6 6.6 0 0 1-3.3-2.9c-.2-.4.2-.4.7-1.3.1-.2 0-.3 0-.4l-.8-1.8c-.2-.5-.4-.4-.6-.4h-.5a1 1 0 0 0-.7.3 3 3 0 0 0-.9 2.2c0 1.3.9 2.5 1.1 2.7.1.2 1.8 2.8 4.4 3.9 1.6.7 2.3.8 3.1.6.5-.1 1.5-.6 1.7-1.2.2-.6.2-1.1.2-1.2-.1-.1-.3-.2-.5-.3z"/></svg>Написать в WhatsApp</a></li><li><a class="foot-ic" href="https://t.me/Volt0ne" target="_blank" rel="noopener"><svg viewBox="0 0 24 24" fill="currentColor" aria-hidden="true"><path d="M21.4 3.6 2.9 10.7c-1.3.5-1.2 1.2-.2 1.5l4.7 1.5 1.8 5.6c.2.6.4.8.8.8s.6-.2.9-.5l2.3-2.2 4.8 3.5c.9.5 1.5.2 1.7-.8l3.1-14.7c.3-1.3-.5-1.9-1.4-1.3zM9.6 13.9l8.6-5.4c.4-.3.8-.1.5.2l-7.4 6.7-.3 3.1-1.4-4.6z"/></svg>Написать в Telegram · @Volt0ne</a></li><li style="color:var(--muted)">г. Новосибирск, ул. Пролетарская, 50</li></ul></div>
 </div><div class="foot-bottom"><span>© 2026 VOLT ONE. Аренда · Продажа · Запчасти</span><span>Новая техника · Без залога · Собственный сервис · Аренда с выкупом</span></div></div></footer>
 <div class="mbar"><a class="btn btn-gold" href="tel:+79139438814"><svg class="" viewBox="0 0 24 24" fill="none" stroke="currentColor" stroke-width="1.7" stroke-linecap="round" stroke-linejoin="round" aria-hidden="true"><path d="M5 4h4l2 5-2.5 1.5a11 11 0 0 0 5 5L15 13l5 2v4a2 2 0 0 1-2 2A16 16 0 0 1 3 6a2 2 0 0 1 2-2"/></svg>Позвонить</a><a class="btn btn-ghost" href="https://wa.me/79139438814" target="_blank" rel="noopener"><svg viewBox="0 0 24 24" fill="currentColor" aria-hidden="true"><path d="M12 2.2A9.8 9.8 0 0 0 3.6 17l-1.4 4.8 5-1.3A9.8 9.8 0 1 0 12 2.2zm0 17.9a8.1 8.1 0 0 1-4.1-1.1l-.3-.2-3 .8.8-2.9-.2-.3A8.1 8.1 0 1 1 12 20.1zm4.5-6.1c-.2-.1-1.5-.7-1.7-.8-.2-.1-.4-.1-.6.1l-.8 1c-.1.2-.3.2-.5.1a6.6 6.6 0 0 1-3.3-2.9c-.2-.4.2-.4.7-1.3.1-.2 0-.3 0-.4l-.8-1.8c-.2-.5-.4-.4-.6-.4h-.5a1 1 0 0 0-.7.3 3 3 0 0 0-.9 2.2c0 1.3.9 2.5 1.1 2.7.1.2 1.8 2.8 4.4 3.9 1.6.7 2.3.8 3.1.6.5-.1 1.5-.6 1.7-1.2.2-.6.2-1.1.2-1.2-.1-.1-.3-.2-.5-.3z"/></svg>WhatsApp</a></div>
-<script src="../assets/main.js?v=7" defer></script></body></html>
+<script src="../assets/main.js?v=8" defer></script></body></html>

diff --git a/404.html b/404.html
@@ -10,6 +10,6 @@
 <link rel="apple-touch-icon" href="https://alexautoperfomance-ctrl.github.io/volt-one-site/img/brand/apple-touch-icon.png">
 <link rel="preconnect" href="https://fonts.googleapis.com"><link rel="preconnect" href="https://fonts.gstatic.com" crossorigin>
 <link href="https://fonts.googleapis.com/css2?family=Manrope:wght@400;500;600;700;800&family=Unbounded:wght@400;500;600;700&display=swap&subset=cyrillic" rel="stylesheet">
-<link rel="stylesheet" href="https://alexautoperfomance-ctrl.github.io/volt-one-site/assets/style.css?v=11">
+<link rel="stylesheet" href="https://alexautoperfomance-ctrl.github.io/volt-one-site/assets/style.css?v=12">
 <script type="application/ld+json">{"@context": "https://schema.org", "@type": "LocalBusiness", "name": "VOLT ONE", "description": "Аренда, аренда с выкупом и продажа электровелосипедов для курьеров", "telephone": "+79139438814", "address": {"@type": "PostalAddress", "streetAddress": "ул. Пролетарская, 50", "addressLocality": "Новосибирск", "addressCountry": "RU"}, "geo": {"@type": "GeoCoordinates", "latitude": 55.0248099, "longitude": 82.9562136}}</script>
 </head><body><div class="noise"></div><main><section class="phero"><div class="container"><h1>Страница <span class="gold">не найдена</span></h1><p class="lead" style="margin:20px 0 30px">Перейдите на главную или в каталог.</p><a class="btn btn-gold" href="https://alexautoperfomance-ctrl.github.io/volt-one-site/">На главную</a></div></section></main></body></html>

diff --git a/assets/style.css b/assets/style.css
@@ -445,3 +445,19 @@ h3{font-size:clamp(18px,2.2vw,22px)}
 .pgrid{grid-template-columns:repeat(2,minmax(0,1fr))}
 @media(min-width:700px){.pgrid{grid-template-columns:repeat(3,minmax(0,1fr))}}
 .ptile-img.fit img{object-fit:contain}
+/* hero slider */
+.hero-slider{background:#151210}
+.hero-slider:after{pointer-events:none;z-index:1}
+.hs{position:absolute;inset:0;display:block;opacity:0;transition:opacity 1s ease;z-index:0}
+.hs.on{opacity:1;z-index:1}
+.hs picture,.hs img{display:block;width:100%;height:100%}
+.hero-slider .hs img{object-fit:cover;object-position:50% 55%;transform:scale(1.06);transition:transform 6s ease-out}
+.hero-slider .hs.on img{transform:scale(1)}
+.hs .cap{position:absolute;left:18px;bottom:16px;right:18px;z-index:3;display:flex;justify-content:space-between;align-items:flex-end;gap:10px;font-size:13px;color:var(--muted)}
+.hs .cap b{display:block;color:var(--text);font-family:var(--ff-h);font-weight:500;font-size:16px}
+.hs-more{display:inline-flex;align-items:center;gap:6px;color:var(--gold2);font-weight:600;white-space:nowrap}
+.hs-more svg{width:16px;height:16px}
+.hs-dots{position:absolute;z-index:4;top:18px;right:18px;display:flex;gap:6px}
+.hs-dots button{width:8px;height:8px;border-radius:8px;border:0;padding:0;background:rgba(255,255,255,.35);cursor:pointer;transition:width .3s,background .3s}
+.hs-dots button.on{width:22px;background:var(--gold2)}
+@media(max-width:520px){.hs .cap{left:14px;right:14px;bottom:12px}.hs .cap b{font-size:14px}.hs-dots{top:auto;bottom:64px;right:14px}}

diff --git a/assets/main.js b/assets/main.js
@@ -76,4 +76,16 @@
     var px=null;plb.addEventListener('touchstart',function(e){px=e.touches[0].clientX},{passive:true});
     plb.addEventListener('touchend',function(e){if(px===null)return;var dx=e.changedTouches[0].clientX-px;if(Math.abs(dx)>40)pshow(cur+(dx<0?1:-1));px=null});
   }
+
+  // hero slider
+  var hsl=d.getElementById('hslider');
+  if(hsl){
+    var hs=hsl.querySelectorAll('.hs'),hd=hsl.querySelectorAll('.hs-dots button'),hi=0,ht;
+    function hgo(n){hi=(n+hs.length)%hs.length;hs.forEach(function(x,k){x.classList.toggle('on',k===hi)});hd.forEach(function(x,k){x.classList.toggle('on',k===hi)})}
+    function hplay(){clearInterval(ht);ht=setInterval(function(){hgo(hi+1)},4500)}
+    hd.forEach(function(b,k){b.addEventListener('click',function(e){e.preventDefault();hgo(k);hplay()})});
+    var hx=null;hsl.addEventListener('touchstart',function(e){hx=e.touches[0].clientX},{passive:true});
+    hsl.addEventListener('touchend',function(e){if(hx===null)return;var dx=e.changedTouches[0].clientX-hx;if(Math.abs(dx)>40){hgo(hi+(dx<0?1:-1));hplay()}hx=null});
+    if(!(window.matchMedia&&matchMedia('(prefers-reduced-motion: reduce)').matches))hplay();
+  }
 })();

diff --git a/build.py b/build.py
@@ -97,7 +97,7 @@ def head(title,desc,p,canon,og_img='img/og.jpg'):
 <link rel="apple-touch-icon" href="{p}img/brand/apple-touch-icon.png">
 <link rel="preconnect" href="https://fonts.googleapis.com"><link rel="preconnect" href="https://fonts.gstatic.com" crossorigin>
 <link href="https://fonts.googleapis.com/css2?family=Manrope:wght@400;500;600;700;800&family=Unbounded:wght@400;500;600;700&display=swap&subset=cyrillic" rel="stylesheet">
-<link rel="stylesheet" href="{p}assets/style.css?v=11">
+<link rel="stylesheet" href="{p}assets/style.css?v=12">
 <script type="application/ld+json">{json.dumps({"@context":"https://schema.org","@type":"LocalBusiness","name":"VOLT ONE","description":"Аренда, аренда с выкупом и продажа электровелосипедов для курьеров","telephone":"+79139438814","address":{"@type":"PostalAddress","streetAddress":"ул. Пролетарская, 50","addressLocality":"Новосибирск","addressCountry":"RU"},"geo":{"@type":"GeoCoordinates","latitude":POINTS[0]['lat'],"longitude":POINTS[0]['lon']}},ensure_ascii=False)}</script>
 </head><body><div class="noise"></div>'''
 
@@ -123,7 +123,7 @@ def footer(p):
 <div><h4>Контакты</h4><ul><li><a href="{TEL}">{PHONE}</a></li><li><a class="foot-ic" href="{WA}" target="_blank" rel="noopener">{ic('wa')}Написать в WhatsApp</a></li><li><a class="foot-ic" href="{TG}" target="_blank" rel="noopener">{ic('tg')}Написать в Telegram · @Volt0ne</a></li><li style="color:var(--muted)">{ADDR}</li></ul></div>
 </div><div class="foot-bottom"><span>© 2026 VOLT ONE. Аренда · Продажа · Запчасти</span><span>Новая техника · Без залога · Собственный сервис · Аренда с выкупом</span></div></div></footer>
 <div class="mbar"><a class="btn btn-gold" href="{TEL}">{ic('phone')}Позвонить</a><a class="btn btn-ghost" href="{WA}" target="_blank" rel="noopener">{ic('wa')}WhatsApp</a></div>
-<script src="{p}assets/main.js?v=7" defer></script></body></html>'''
+<script src="{p}assets/main.js?v=8" defer></script></body></html>'''
 
 def media(m,p,cls=''):
     ph=photos(m['slug'])
@@ -181,6 +181,20 @@ def cta_block(p):
 <div><a class="phone-big" href="{TEL}">{PHONE}</a><p style="color:var(--muted);margin-bottom:18px">{ADDR}</p><div class="btns"><a class="btn btn-gold" href="{TEL}">{ic('phone')}Позвонить</a><a class="btn btn-ghost" href="{WA}" target="_blank" rel="noopener">{ic('wa')}Написать в WhatsApp</a><a class="btn btn-ghost" href="{TG}" target="_blank" rel="noopener">{ic('tg')}Написать в Telegram</a></div></div>
 </div></div></div></section>'''
 
+def hero_slides():
+    order=['u2-big','u2','r9','u5']
+    ms={m['slug']:m for m in MODELS}
+    sl='';dots=''
+    for k,sg in enumerate(order):
+        m=ms[sg]; ph=photos(sg)
+        if not ph: continue
+        w=ph[0]; j=w[:-5]+'.jpg'
+        sl+=(f'<a class="hs{" on" if k==0 else ""}" href="catalog/{sg}/" aria-label="{m["name"]} — подробнее">'
+             f'<picture><source srcset="{w}" type="image/webp"><img src="{j}" alt="{m["name"]}" {"fetchpriority=\"high\"" if k==0 else "loading=\"lazy\""} decoding="async"></picture>'
+             f'<span class="cap"><span><b>{m["name"]}</b>Новые электровелосипеды для курьеров</span><span class="hs-more">Подробнее{ic("arrow")}</span></span></a>')
+        dots+=f'<button type="button" class="{"on" if k==0 else ""}" aria-label="{m["name"]}"></button>'
+    return f'<div class="hero-photo hero-slider" id="hslider">{sl}<div class="hs-dots">{dots}</div></div>'
+
 def index():
     p=''
     advh=''.join(f'<div class="adv rv d{i%4}{" big" if i==0 else ""}"><span class="num">0{i+1}</span><div class="ic">{ic(a)}</div><h3>{t}</h3><p>{d}</p></div>' for i,(a,t,d) in enumerate(ADV))
@@ -195,8 +209,7 @@ def index():
 <p class="lead rv d2">WENBOX в аренду и с выкупом. Все электровелосипеды новые, полностью подготовлены к работе и подходят для ежедневной работы курьером.</p>
 <div class="hero-btns rv d3"><a class="btn btn-gold" href="catalog/">Выбрать модель{ic('arrow')}</a><a class="btn btn-ghost" href="{TEL}">{ic('phone')}{PHONE}</a></div>
 <div class="hero-stats rv d3"><div><b>от 4 000 ₽</b><span>аренда в неделю</span></div><div><b>0 ₽</b><span>залог</span></div><div><b>до 70 км/ч</b><span>скорость U2 / U2 PRO</span></div></div></div>
-<div class="hero-media rv d2"><div class="hero-photo hero-art"><div class="ha-rings"><i></i><i></i><i></i></div><img class="ha-mark" src="img/brand/mark.svg" alt="" aria-hidden="true"><div class="ha-bike">{BIKE_SVG}</div>
-<div class="cap"><div><b>WENBOX U2 · U2 BIG · U5 · R9</b>Новые электровелосипеды для курьеров</div></div></div>
+<div class="hero-media rv d2">{hero_slides()}
 <div class="float-chip chip-1">{ic('shield')}<div><b>Без залога</b><span>новая техника</span></div></div>
 <div class="float-chip chip-2">{ic('wrench')}<div><b>Свой сервис</b><span>подменный — бесплатно</span></div></div></div>
 </div></section>
